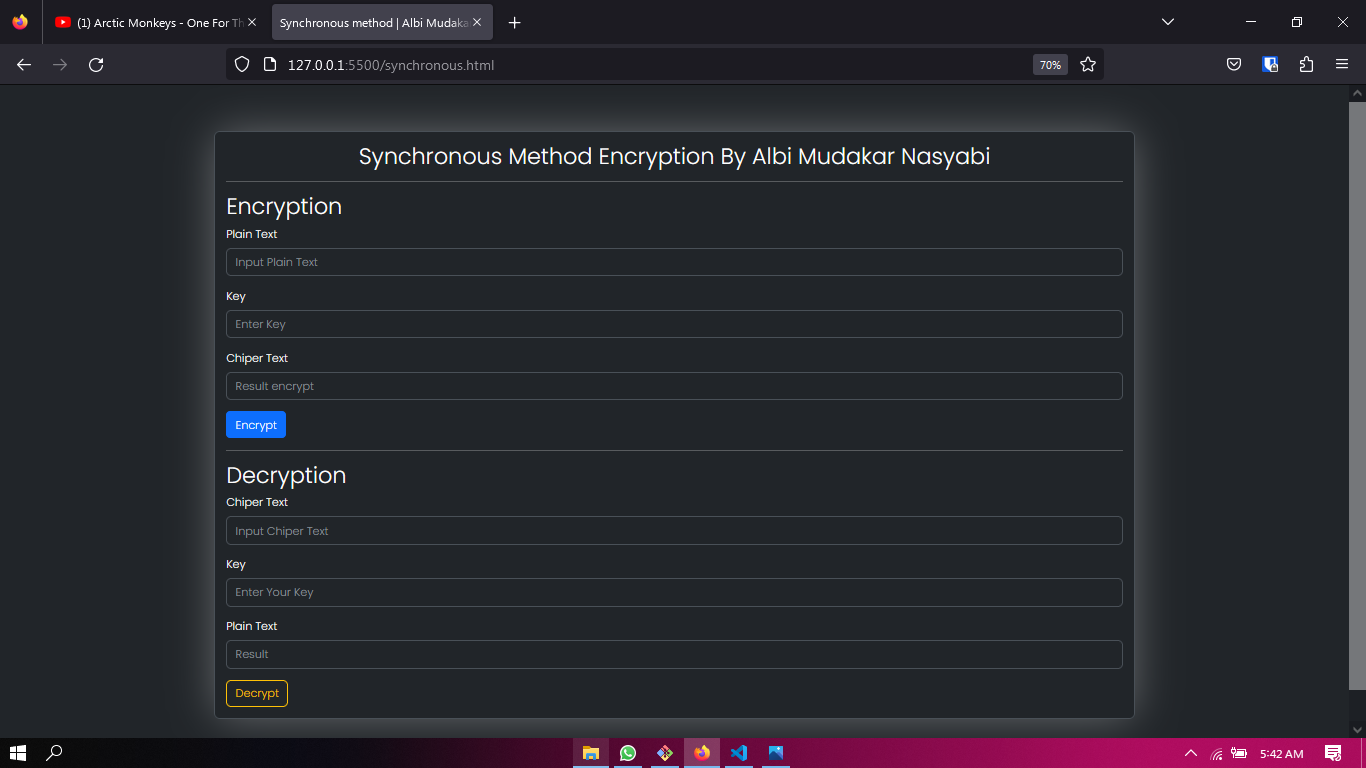
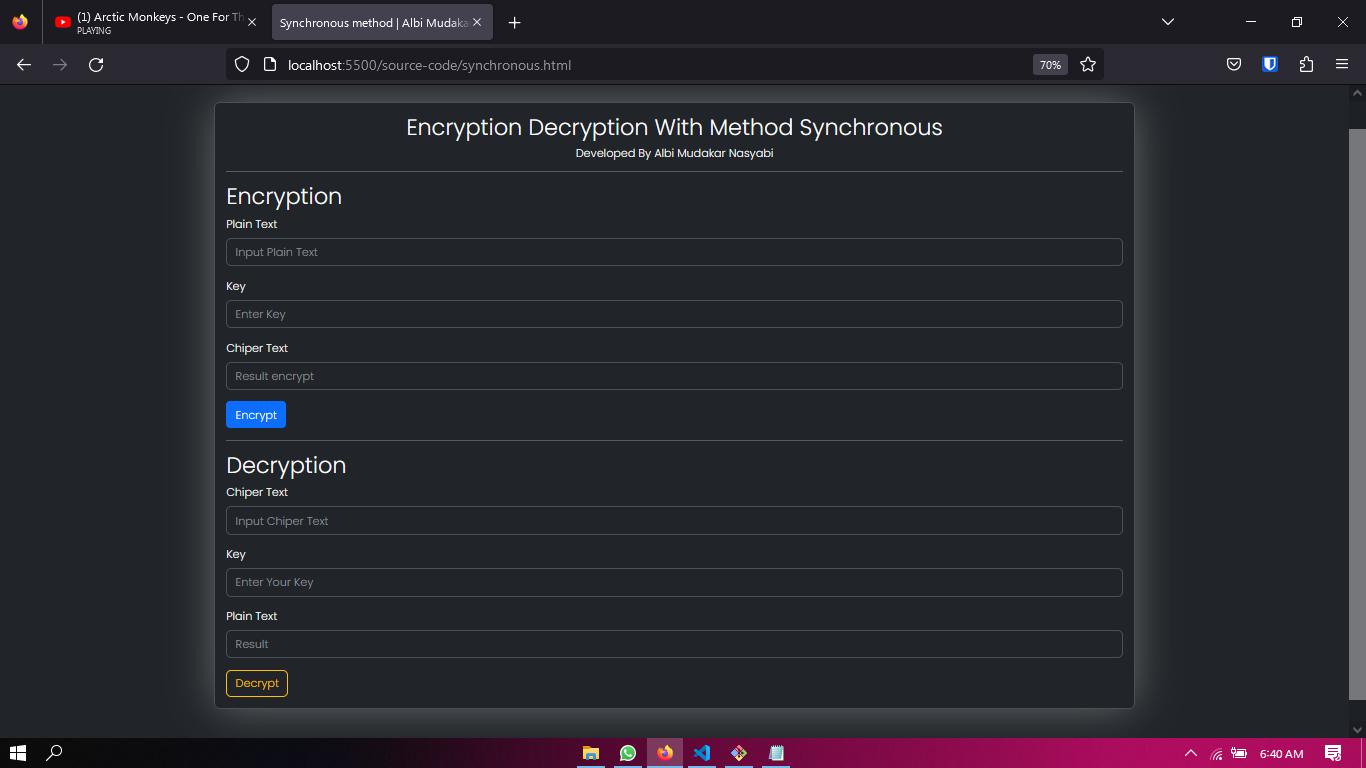
complete

diff --git a/source-code/script.js b/source-code/script.js
@@ -35,7 +35,7 @@ encryptButton.addEventListener('click', function() {
   const encryptedMessage = encrypt(message, key);
   resultDisplayEncrypt.value = encryptedMessage;
   if (message.trim() === '' || key.trim() === '') {
-    errorDisplayEncrypt.placeholder = 'Mohon masukan plain text anda!';
+    errorDisplayEncrypt.placeholder = 'Mohon masukan Plain Text dan Key anda!';
     errorDisplayEncrypt.style.borderColor = "red";
     errorDisplayEncrypt.value = '';
     return;
@@ -49,7 +49,7 @@ decryptButton.addEventListener('click', function() {
   const decryptedMessage = decrypt(encryptedMessage, key);
   resultDisplayDecrypt.value = decryptedMessage;
   if (encryptedMessage.trim() === '' || key.trim() === '') {
-    resultDisplayDecrypt.placeholder = 'Mohon masukan key anda, untuk di decrypt!';
+    resultDisplayDecrypt.placeholder = 'Mohon masukan Chiper Text dan key anda!';
     errorDisplayDecrypt.style.borderColor = "red";
     errorDisplayDecrypt.value = '';
     return;

diff --git a/source-code/synchronous.html b/source-code/synchronous.html
@@ -9,7 +9,8 @@
   </head>
   <body class="p-3 mb-2 text-white font-weight-bold">
     <div class="container-lg p-3 text--bs-light --bs-light-bg-subtle border border-light-subtle rounded-3" id="container">
-        <h2 class="text-center font-weight-bold">Synchronous Method Encryption By Albi Mudakar Nasyabi</h2>
+        <h2 class="text-center font-weight-600">Encryption Decryption With Method Synchronous</h2>
+        <h6 class="text-center font-weight-bold">Developed By Albi Mudakar Nasyabi</h6>
         <hr>
         <h2 class="text-left font-weight-bold">Encryption</h2>
         <div class="mb-3" data-bs-theme="dark">
